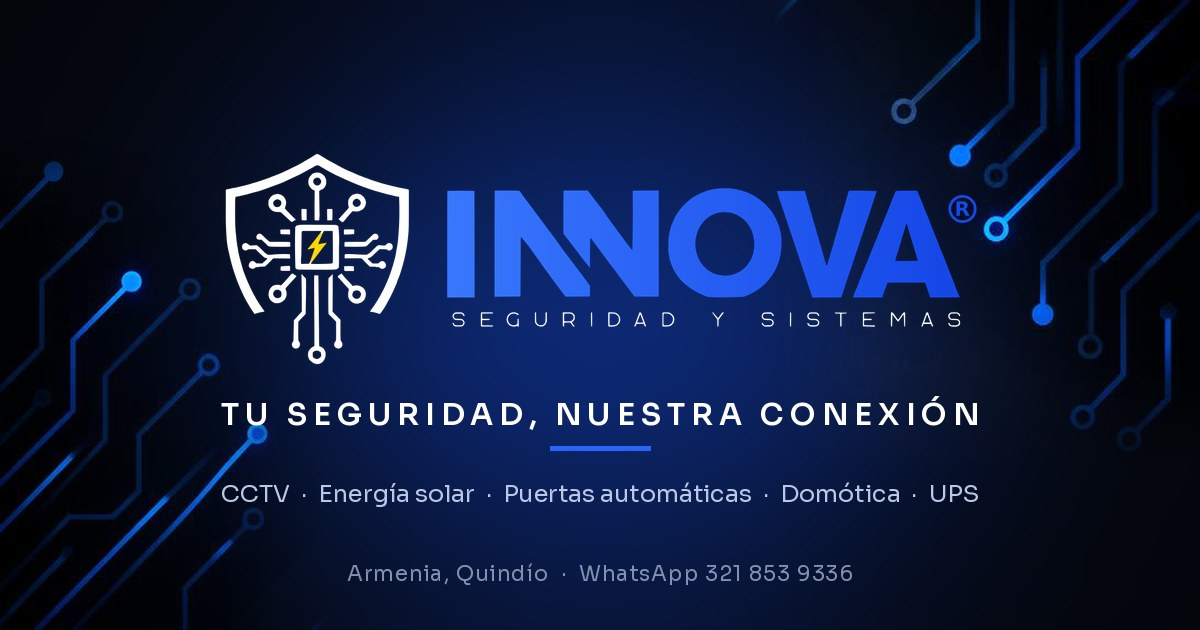
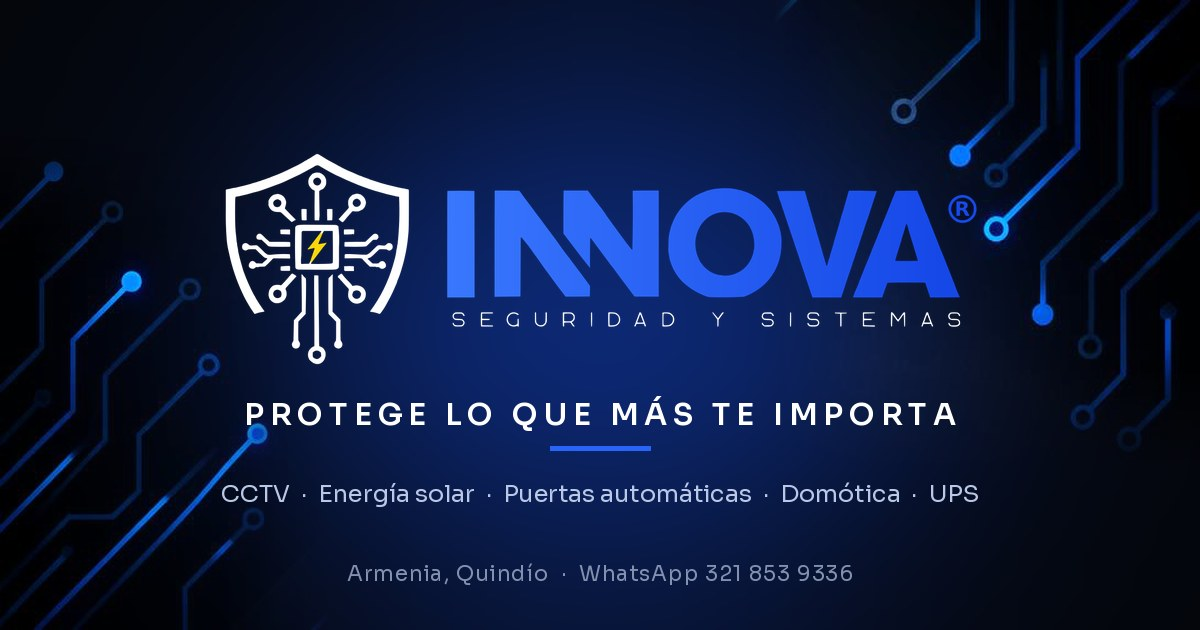
Fix link previews and use the official slogan
- robots.txt: link-preview bots (WhatsApp, Facebook, X, LinkedIn, Telegram…) can always read the pages and the share image; only search engines are kept out until launch.
- Official slogan "Protege lo que más te importa." on the share image, its alt text, the share titles, the footer, Nosotros and the business structured data.
- Site URL set to https://www.innovaseguridad.com.co.

Claude-Session: https://claude.ai/code/session_01YaiGpyhrArHK4uYcERHUhc

Changed region(s): [[0.185, 0.6333, 0.8325, 0.6937]]

diff --git a/src/app/robots.ts b/src/app/robots.ts
@@ -1,10 +1,15 @@
 import type { MetadataRoute } from "next";
 import { isIndexable, siteUrl } from "@/lib/site-url";
 
+// Link-preview bots (WhatsApp, Facebook, X, LinkedIn, Telegram…) must always be
+// able to read the page and its share image, even while Google is kept out.
+const previewBots = ["facebookexternalhit", "Facebot", "meta-externalagent", "WhatsApp", "Twitterbot", "LinkedInBot", "TelegramBot", "Slackbot", "Discordbot", "Pinterestbot"];
+
 export default function robots(): MetadataRoute.Robots {
-  if (!isIndexable()) return { rules: { userAgent: "*", disallow: "/" } };
+  const preview = { userAgent: previewBots, allow: "/", disallow: ["/admin", "/api/"] };
+  if (!isIndexable()) return { rules: [preview, { userAgent: "*", disallow: "/" }] };
   return {
-    rules: { userAgent: "*", allow: "/", disallow: ["/admin", "/api/", "/carrito", "/pago"] },
+    rules: [preview, { userAgent: "*", allow: "/", disallow: ["/admin", "/api/", "/carrito", "/pago"] }],
     sitemap: `${siteUrl()}/sitemap.xml`,
     host: siteUrl(),
   };

diff --git a/src/app/layout.tsx b/src/app/layout.tsx
@@ -49,11 +49,11 @@ export const metadata: Metadata = {
     type: "website",
     locale: "es_CO",
     siteName: site.name,
-    title: "INNOVA Seguridad y Sistemas",
+    title: "INNOVA Seguridad y Sistemas · Protege lo que más te importa",
     description: site.description,
     url: "/",
   },
-  twitter: { card: "summary_large_image", title: "INNOVA Seguridad y Sistemas", description: site.description },
+  twitter: { card: "summary_large_image", title: "INNOVA Seguridad y Sistemas · Protege lo que más te importa", description: site.description },
   formatDetection: { telephone: false },
 };
 
@@ -72,7 +72,7 @@ const jsonLd = {
       url: baseUrl,
       logo: `${baseUrl}/brand/icon-512.png`,
       image: [`${baseUrl}/opengraph-image.jpg`, `${baseUrl}/img/cctv-domo.webp`],
-      slogan: "Tu seguridad, nuestra conexión",
+      slogan: site.slogan,
       telephone: "+57 321 853 9336",
       email: site.email,
       priceRange: "$$",

diff --git a/src/lib/site.ts b/src/lib/site.ts
@@ -1,10 +1,10 @@
 export const site = {
   name: "INNOVA Seguridad y Sistemas",
   shortName: "INNOVA",
-  slogan: "Tecnología que protege, conecta y transforma",
+  slogan: "Protege lo que más te importa.",
   description:
     "Cámaras de seguridad (CCTV), energía solar, automatización de puertas, domótica, UPS y soporte informático en Armenia, Quindío y todo Colombia.",
-  url: "https://innovaseguridad.co", // TODO: confirmar dominio
+  url: "https://www.innovaseguridad.com.co",
   city: "Armenia, Quindío",
   address: "Carrera 19A # 9-06, Armenia, Quindío",
   email: "ventasinnovaseguridad@gmail.com",

diff --git a/src/components/layout/Footer.tsx b/src/components/layout/Footer.tsx
@@ -16,7 +16,7 @@ export function Footer() {
           <div className="col-span-2 lg:col-span-1">
             <Logo className="h-12 w-auto" />
             <p className="mt-6 max-w-sm text-pretty text-white/60">
-              Soluciones integrales en seguridad electrónica, energía solar, automatización y redes. {site.slogan}.
+              Soluciones integrales en seguridad electrónica, energía solar, automatización y redes. {site.slogan}
             </p>
             <div className="mt-6 flex gap-2">
               <a

diff --git a/src/app/(site)/nosotros/page.tsx b/src/app/(site)/nosotros/page.tsx
@@ -30,7 +30,7 @@ export default function NosotrosPage() {
         image="/img/tecnico-torre.webp"
         title={
           <>
-            Tecnología que protege, <span className="text-lime-400">conecta y transforma.</span>
+            Protege <span className="text-lime-400">lo que más te importa.</span>
           </>
         }
       />
